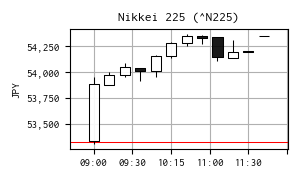
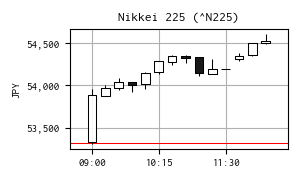
update

diff --git a/widgets/graphs.py b/widgets/graphs.py
@@ -20,7 +20,8 @@ class TrendGraph(pg.PlotWidget):
     COLOR_VWAP = (0, 255, 255, 192)
     COLOR_MA_1 = (0, 255, 0, 192)
     COLOR_MA_2 = (255, 0, 255, 255)
-    COLOR_CROSS = (255, 255, 64, 128)
+    COLOR_GOLDEN = (255, 0, 192, 160)
+    COLOR_DEAD = (0, 192, 255, 128)
     COLOR_LAST_DOT = (0, 255, 0, 255)
     SIZE_LAST_DOT = 4
 
@@ -80,8 +81,11 @@ class TrendGraph(pg.PlotWidget):
         )
         self.addItem(self.last_dot)
 
-        self.vline = pg.InfiniteLine(angle=90, pen=pg.mkPen(self.COLOR_CROSS, width=1))
-        self.addItem(self.vline)
+        self.vline_golden = pg.InfiniteLine(angle=90, pen=pg.mkPen(self.COLOR_GOLDEN, width=1))
+        self.addItem(self.vline_golden)
+
+        self.vline_dead = pg.InfiniteLine(angle=90, pen=pg.mkPen(self.COLOR_DEAD, width=1))
+        self.addItem(self.vline_dead)
 
     def config_plot_item(self):
         """
@@ -109,8 +113,11 @@ class TrendGraph(pg.PlotWidget):
         # 高速化オプション
         self.plot_item.setClipToView(True)
 
-    def setCross(self, x):
-        self.vline.setPos(x)
+    def setCrossDead(self, x):
+        self.vline_dead.setPos(x)
+
+    def setCrossGolden(self, x):
+        self.vline_golden.setPos(x)
 
     def setLine(self, line_x, line_y):
         # line_x, line_y が空でないことが保証されている

diff --git a/modules/trader.py b/modules/trader.py
@@ -159,11 +159,11 @@ class Trader(QMainWindow):
         self.trend.save(path_img)
 
     def on_technicals(self, dict_technicals: dict):
+        # テクニカル指標
         self.list_ts.append(dict_technicals["ts"])
         self.list_vwap.append(dict_technicals["vwap"])
         self.list_ma_1.append(dict_technicals["ma1"])
         self.list_ma_2.append(dict_technicals["ma2"])
-        # テクニカル指標
         self.trend.setTechnicals(
             self.list_ts,
             self.list_vwap,
@@ -171,8 +171,10 @@ class Trader(QMainWindow):
             self.list_ma_2
         )
         # クロス時の縦線表示
-        if dict_technicals["cross1"] != 0:
-            self.trend.setCross(dict_technicals["ts"])
+        if 0 < dict_technicals["cross1"]:
+            self.trend.setCrossGolden(dict_technicals["ts"])
+        elif dict_technicals["cross1"] < 0:
+            self.trend.setCrossDead(dict_technicals["ts"])
 
     def on_trading_completed(self):
         self.logger.info("取引が終了しました。")
